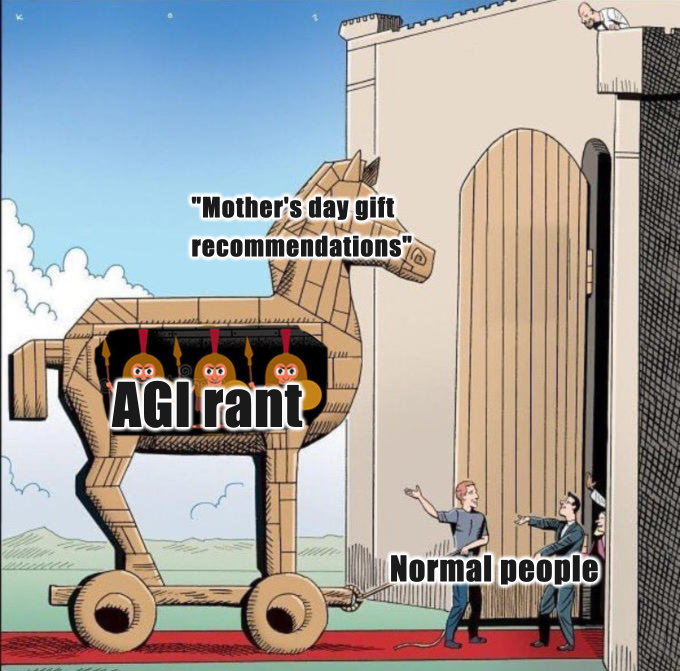
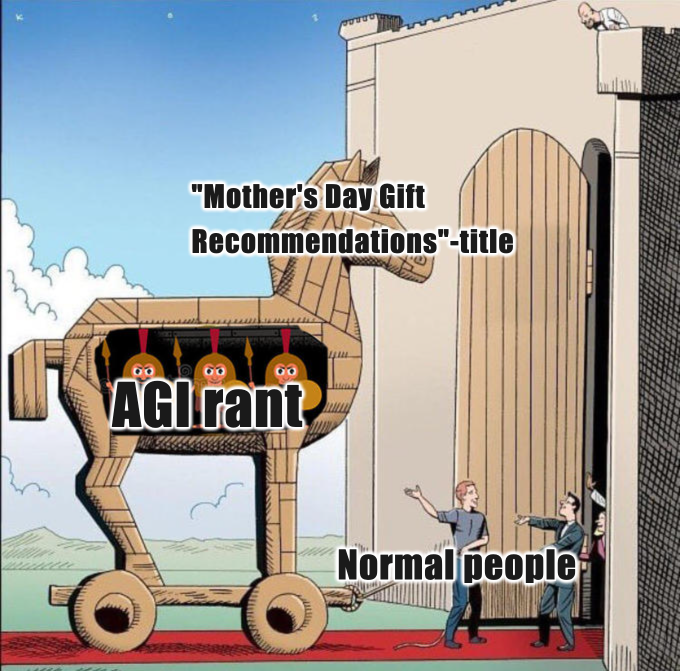
title

Changed region(s): [[0.2779, 0.2683, 0.7721, 0.3875], [0.4941, 0.8048, 0.8956, 0.8942]]

diff --git a/_posts/2025-02-10-mothers-day.md b/_posts/2025-02-10-mothers-day.md
@@ -1,6 +1,6 @@
 ---
 layout: post
-title: Mother's Day Gift recommendations
+title: Mother's Day Gift Recommendations
 date: 2025-02-10
 description: There was a brief moment in time when learning AI tools was a great idea. That moment has passed. What is the new advice to stay ahead?
 tags: AI, AGI
@@ -11,7 +11,7 @@ giscus_comments: true
 thumbnail: /assets/img/trojan_horse.png
 ---
 
-{% include figure.liquid loading="eager" path="assets/img/trojan_horse.png" class="img-fluid rounded z-depth-1" width="80%" %}
+{% include figure.liquid loading="eager" path="assets/img/trojan_horse.png" class="img-fluid rounded z-depth-1" width="70%" %}
 
 I was particularly proud of my Mother's Day gift for 2023. After the release of ChatGPT in late November 2022, I was running around like an evangelist trying to convince everyone and their mother that they needed to learn the latest AI tools. 
 
